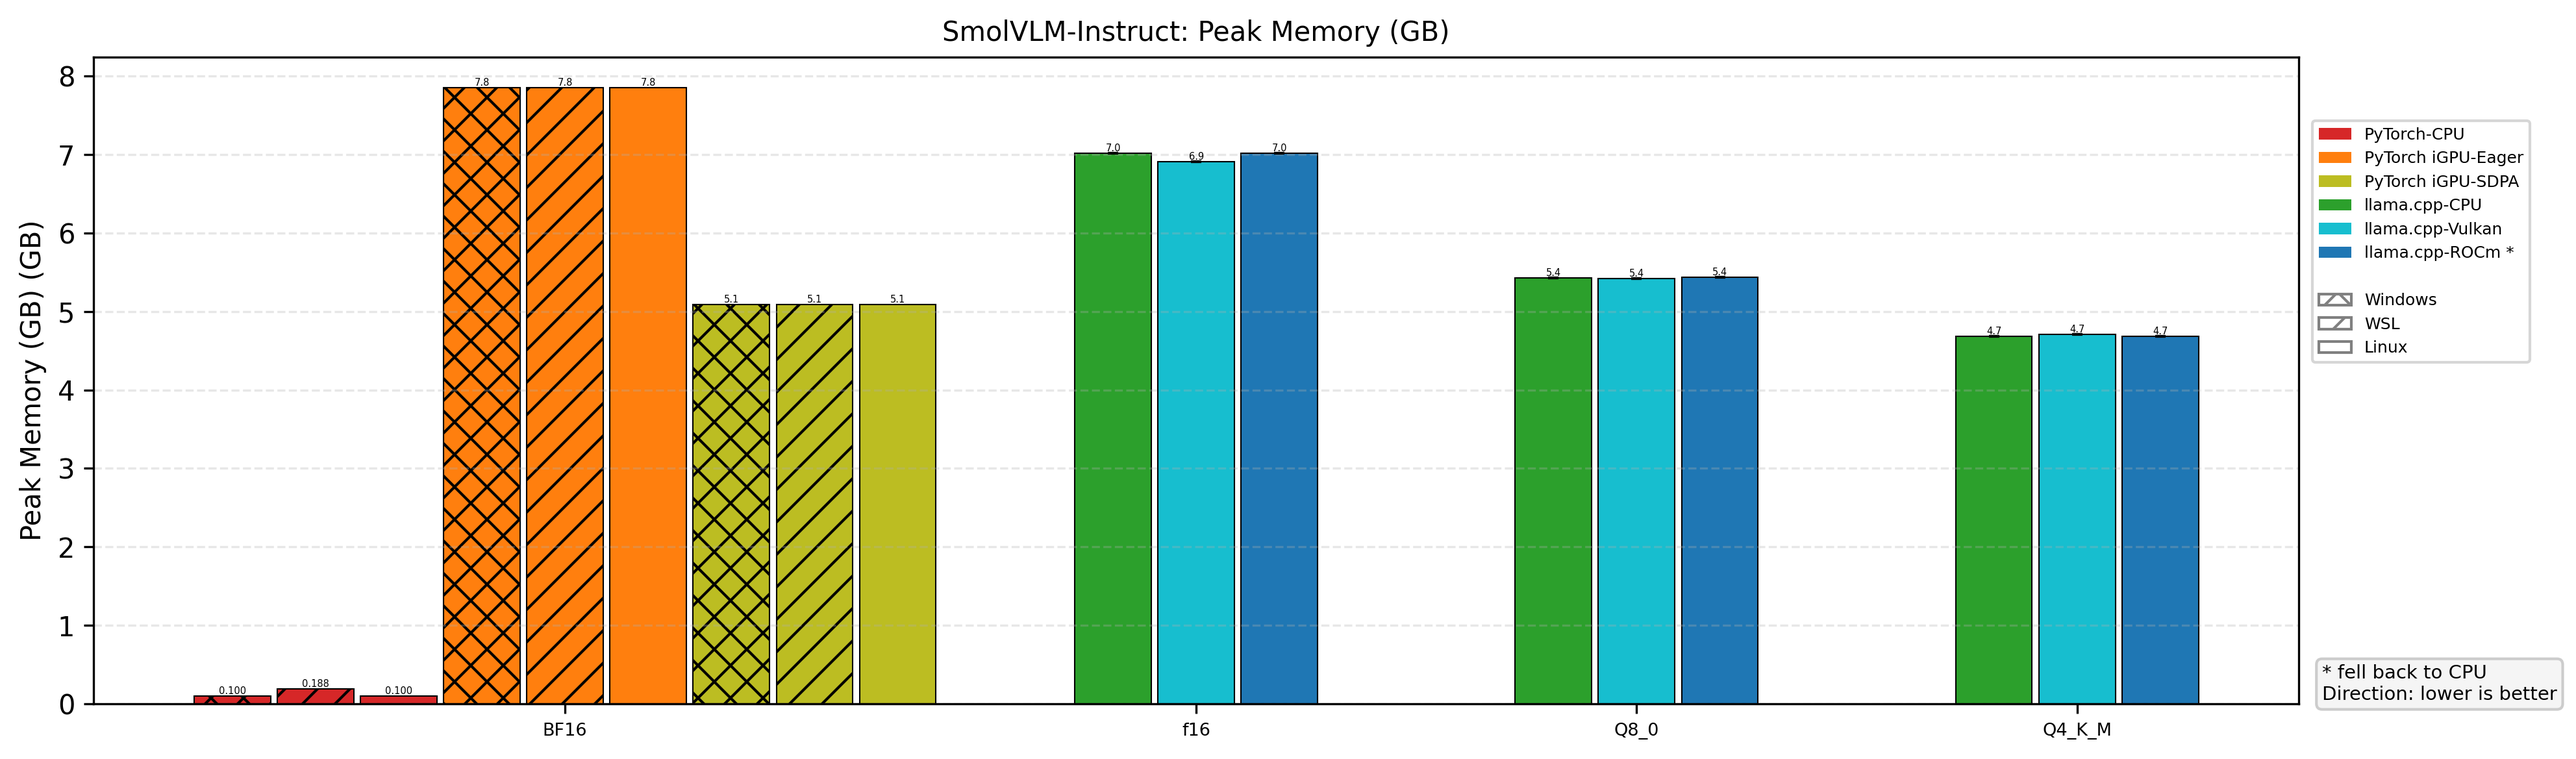
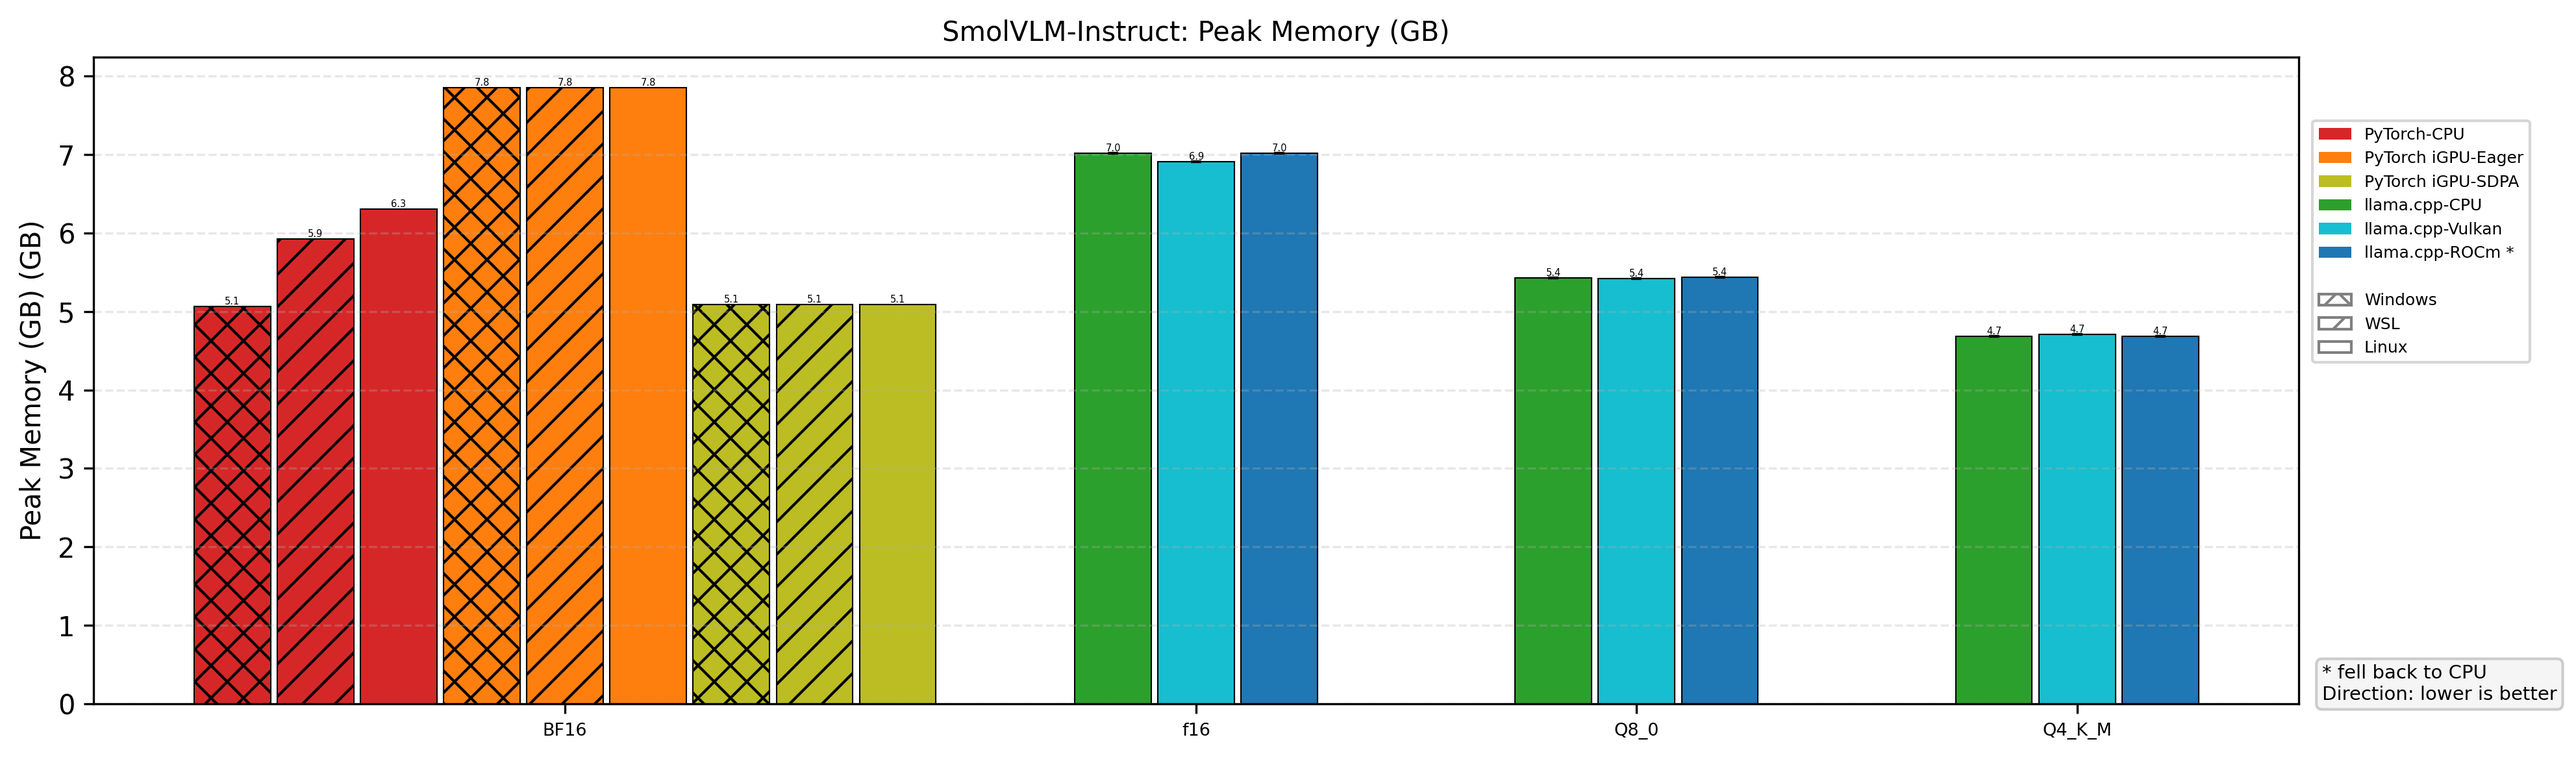
perf(benchmarks): use cpu_rss_mb for peak memory reporting

Changed region(s): [[0.062, 0.2772, 0.186, 0.9239]]

diff --git a/benchmarks/generate_comparison_charts.py b/benchmarks/generate_comparison_charts.py
@@ -370,6 +370,8 @@ def plot_smolvlm_instruct():
                             m, e = extract_metrics_with_error(entry)
                             v = m.get(metric)
                             err = e.get(metric)
+                            if metric == 'Peak Memory (GB)' and pt_cfg == 'cpu_bfloat16_none':
+                                v = entry.get('memory', {}).get('cpu_rss_mb', 0) / 1024
                 else:
                     bk = 'cpu' if '-CPU' in cfg_name else ('vulkan' if 'Vulkan' in cfg_name else 'rocm')
                     quant = dtype_name
@@ -469,6 +471,9 @@ def plot_vggt():
                             m, er = extract_metrics_with_error(e)
                             v = m.get(metric)
                             err = er.get(metric)
+                            if 'Peak Memory' in metric and cfg.startswith('cpu_'):
+                                mem = e.get('memory', {})
+                                v = mem.get('cpu_rss_mb', 0) / 1024
                     bg.append({
                         'value': v,
                         'error': err,
